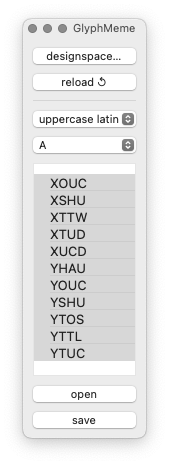
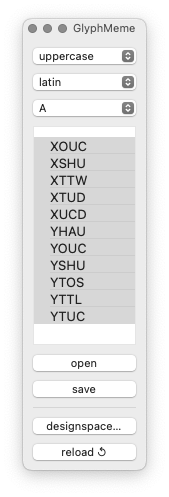
adding docs page for BlendsInstancer, updating GlyphMeme docs

Changed region(s): [[0.1479, 0.0301, 0.8284, 0.8129], [0.1775, 0.843, 0.7988, 0.9333], [0.8284, 0.9333, 0.858, 0.9634]]

diff --git a/Lib/xTools4/dialogs/variable/BlendsInstancer.py b/Lib/xTools4/dialogs/variable/BlendsInstancer.py
@@ -170,12 +170,14 @@ class BlendsInstancerController(ezui.WindowController):
 
         styleName = getStyleNameFromReferenceSourcePath(self.font.path)
 
-        print(f'instantiating glyphs in {styleName}...\n')
+        if self.verbose:
+            print(f'instantiating glyphs in {styleName}...\n')
 
         for glyphName in glyphNames:
             glyph = self.font[glyphName]
 
-            print(f'\tinstantiating {glyphName}...')
+            if self.verbose:
+                print(f'\tinstantiating {glyphName}...')
 
             instanceGlyph = glyph.getRepresentation(KEY, font=self.font, operator=self.operator)
             instanceGlyph = RGlyph(instanceGlyph)
@@ -187,8 +189,9 @@ class BlendsInstancerController(ezui.WindowController):
             targetGlyph.width = instanceGlyph.width
             targetGlyph.performUndo()
 
-        print()
-        print('...done.\n')
+        if self.verbose:
+            print()
+            print('...done.\n')
 
     def _loadDesignspace(self):
         if self.verbose:
@@ -202,7 +205,6 @@ class BlendsInstancerController(ezui.WindowController):
             print('done.\n')
 
     def _updateFontLayers(self):
-        print('_updateFontLayers')
         layerNames = list(self.font.layerOrder) if self.font else []
         self.w.getItem("targetLayer").setItems(layerNames)
 
@@ -239,7 +241,6 @@ class BlendsInstancerSubscriberCurrentFont(Subscriber):
         self.controller._updateFontLayers()
 
     def currentFontLayersDidChangeLayer(self, info):
-        print('currentFontLayersDidChangeLayer')
         self.controller._updateFontLayers()
 
 

diff --git a/docs/_reference/tools/variable/blends-instancer.md b/docs/_reference/tools/variable/blends-instancer.md
@@ -1,0 +1,57 @@
+---
+title     : BlendsInstancer
+layout    : default
+permalink : /reference/tools/variable/blends-instancer/
+---
+
+A tool for previewing and instantiating blended glyphs in reference sources.
+{: .lead}
+
+
+<div class='row'>
+<div class='col-4' markdown='1'>
+![]({{ site.url }}/images/variable/BlendsInstancer.png){: .img-fluid}
+</div>
+<div class='col-8' markdown='1'>
+designspace…
+: Open a dialog to select a designspace file.
+
+reload
+: Reload the previously selected designspace file.
+
+show deltas
+: Show deltas for each point in relation to the blended glyph.
+
+show distance
+: Show x and/or y distance of each delta.
+
+selection only
+: Show the distance visualization only for selected points.
+
+instantiate
+: Instantiate the blended glyph in the selected layer.
+
+targer layer
+: Select layer in which the glyph will be instantiated.
+
+preview
+: Turn the visualisation on/off.
+</div>
+</div>
+
+
+Display
+-------
+
+![]({{ site.url }}/images/variable/BlendsInstancer_preview.png){: .img-fluid}
+
+
+
+Color code
+----------
+
+| <span class='blue'>blue</span>   | neither x nor y values changing | 
+| <span class='red'>red</span>     | only x or y value changing      | 
+| <span class='green'>green</span> | both x and y values changing    | 
+{: .table .table-hover }
+

diff --git a/docs/_reference/tools/variable/glyph-meme.md b/docs/_reference/tools/variable/glyph-meme.md
@@ -13,17 +13,14 @@ A tool to open all parametric sources of a single glyph in a temporary font for 
 ![]({{ site.url }}/images/variable/GlyphMeme.png){: .img-fluid }
 </div>
 <div class='col-8' markdown='1'>
-designspace…
-: Open a dialog to select a designspace file.
-
-reload
-: Reload the previously selected designspace file.
+cases
+: Select a case from the list (lowercase, uppercase, figures, etc).
 
 glyph group
-: Select a glyph group from the list (imported from smart sets).
+: Select a glyph group from the list.
 
 glyph name
-: Select a glyph from which to load parameters (meme).
+: Select a glyph from which to load parametric glyph sources.
 
 glyph parameters (meme)
 : A list of all parameters involved in the variations of the selected glyph.
@@ -33,6 +30,12 @@ open
 
 save
 : Export the selected glyphs back into the UFO sources from where they came from.
+
+designspace…
+: Open a dialog to select a designspace file.
+
+reload
+: Reload the previously selected designspace file.
 </div>
 </div>
 

diff --git a/docs/_reference/tools/variable/varglyph-viewer.md b/docs/_reference/tools/variable/varglyph-viewer.md
@@ -23,7 +23,7 @@ show default
 : Show the default glyph in the background.
 
 show distance
-: Show x and/or y distance of each point in relation to the same point in the default.
+: Show x and/or y distance of each point in relation to the default.
 
 selection only
 : Show the distance visualization only for selected points.

diff --git a/docs/_reference/tools/variable/variable.md b/docs/_reference/tools/variable/variable.md
@@ -10,6 +10,7 @@ Tools to visualize and edit variable font sources.
 <div class='row'>
 
 <div class='col' markdown='1'>
+- [BlendsInstancer](blends-instancer)
 - [BlendsPreview](blends-preview)
 - [GlyphMeme](glyph-meme)
 - [GlyphMemeProofer](glyphmeme-proofer)